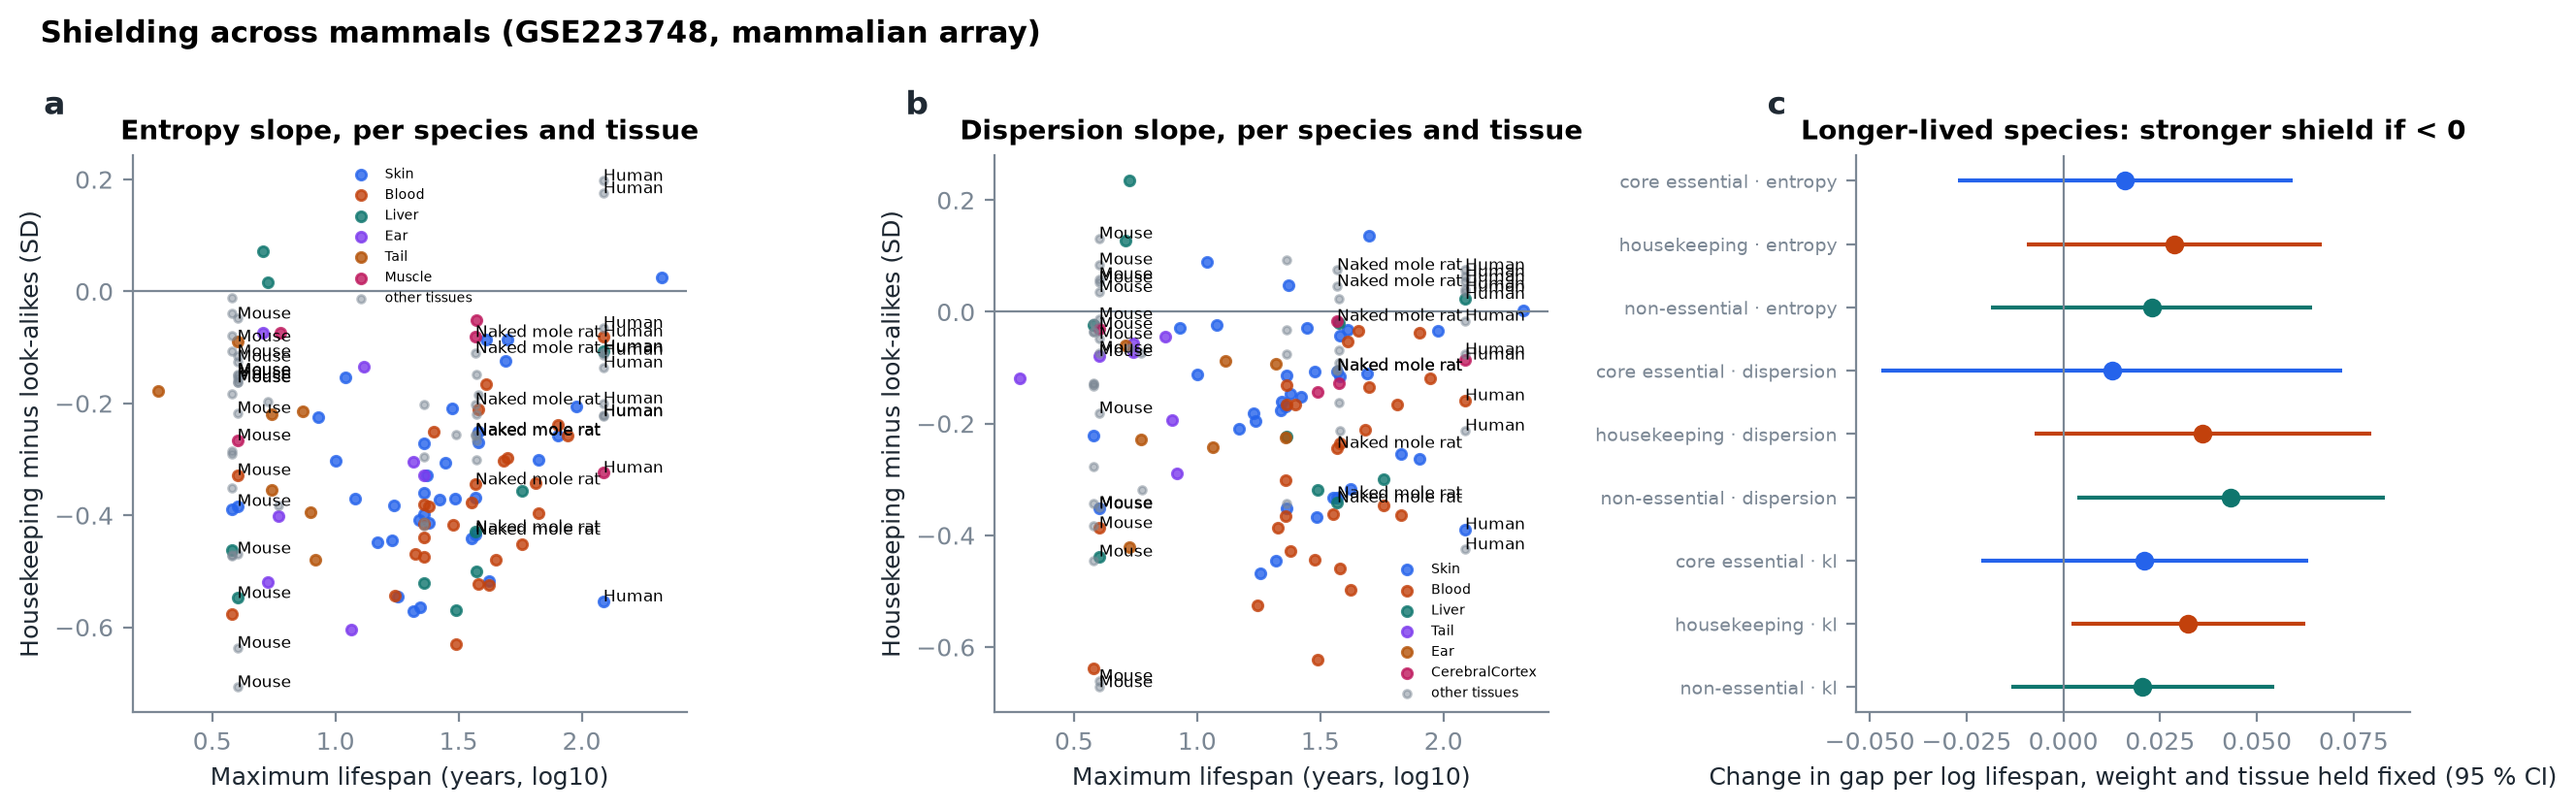
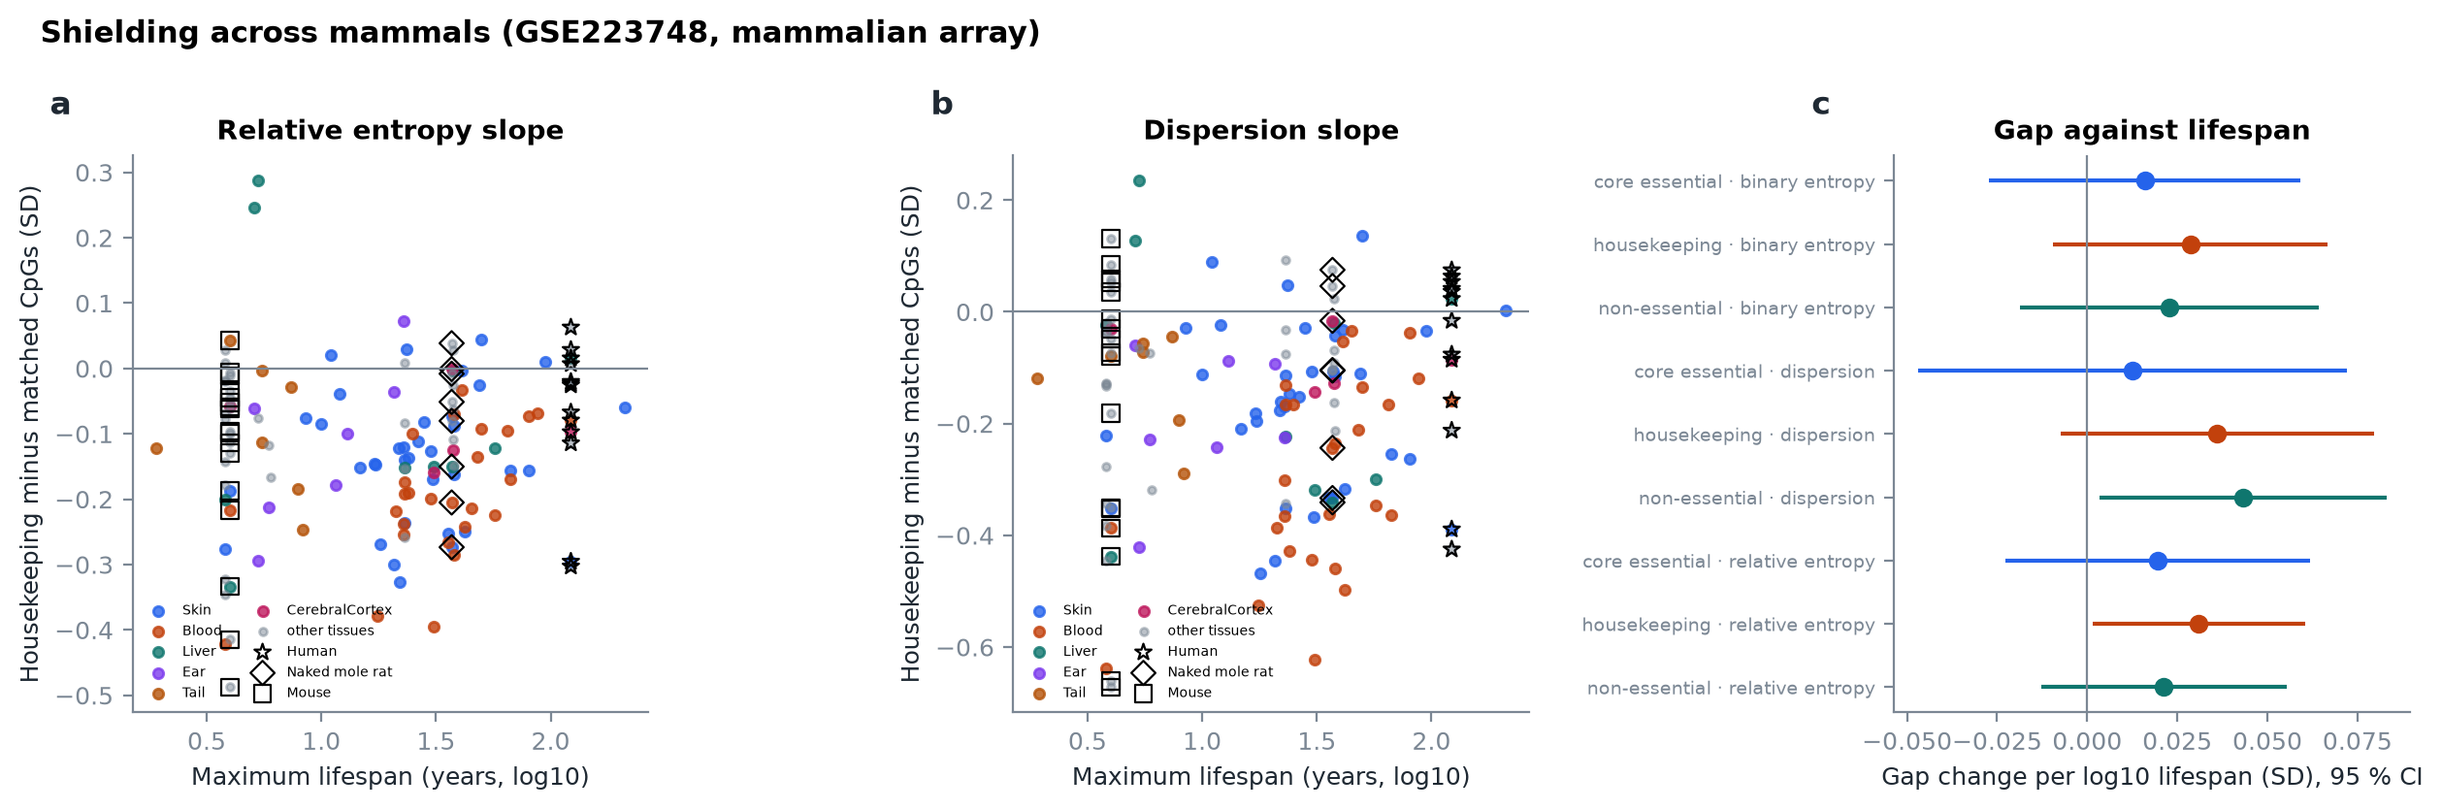
R149 species (88 %, Figure 3 on relative entropy) and R151 SATSA deposited p
Seat: entropy-age/lead

diff --git a/manuscript/paper.md b/manuscript/paper.md
@@ -11,7 +11,7 @@ comparing CpGs in promoters of essential and housekeeping genes with CpGs of the
 methylation level (look-alikes), using relative entropy from the young state as the drift measure. Essential
 promoters drift less than look-alikes in human blood (−0.15 SD for housekeeping genes; −0.10 among CpGs that start between 10 and 90 % methylation, and none among
 those between 20 and 80 %), cortex (−0.06 SD), most GTEx
-tissues, mouse tissues and 89 % of 139 species-tissue groups of 65 mammals. Placebo gene sets, blood-cell
+tissues, mouse tissues and 88 % of 139 species-tissue groups of 65 mammals. Placebo gene sets, blood-cell
 composition, probe design and reprocessing from raw array files do not produce the gap.
 
 Most of the shield is accounted for by promoter activity, not by essentiality as such. Reference chromatin states account for
@@ -201,16 +201,17 @@ the shield or none.
 
 Across mammals (Mammalian Methylation Consortium, GSE223748; Lu et al. 2023; Haghani et al. 2023), 139
 species-tissue groups of 65 species had at least 15 animals spanning 15 % of the species' maximum lifespan. The
-housekeeping gap was negative in 89 % of groups (mean −0.13 SD; Fig. 3 draws the same groups on binary entropy and dispersion). Conserved array CpGs at essential promoters
+housekeeping gap was negative in 88 % of groups (mean −0.12 SD; Fig. 3a). Conserved array CpGs at essential promoters
 sit near 0 %, where drift is floored; with only CpGs whose young level lies between 10 and 90 %, the gap stayed
 negative in 73 % of groups (−0.10 SD).
 
 ![Figure 3](../docs/figures/species_shield.png)
 
-**Figure 3. The shield across 65 mammals.** (a, b) Housekeeping minus look-alike gap per species-tissue group against
-log10 maximum lifespan, on the binary-entropy and dispersion slopes (139 groups; Mammalian Methylation Consortium array); the relative-entropy share quoted in the text (89 % of groups negative) is not drawn. Below zero, housekeeping CpGs drift less than look-alikes.
-(c) Change of the gap per log lifespan, weight and tissue held (95 % interval). The all-CpG relative-entropy
-coefficient (+0.032, p 0.04) vanishes off the 0 % floor (+0.004, p 0.84; Supplementary Fig. S7).
+**Figure 3. The shield across 65 mammals.** (a, b) Housekeeping minus matched gap per species-tissue group against
+log10 maximum lifespan, on the relative-entropy and dispersion slopes (139 groups; Mammalian Methylation Consortium
+array); human, naked mole-rat and mouse groups are marked. Below zero, housekeeping CpGs drift less than matched CpGs.
+(c) Change of the gap per log10 lifespan, weight and tissue held (95 % interval). The all-CpG relative-entropy
+coefficient (+0.031, p 0.04) vanishes off the 0 % floor (+0.004, p 0.83; Supplementary Fig. S7).
 
 ### Essential promoters lose methylation faster and rest lower
 
@@ -456,7 +457,7 @@ SATSA (E-MTAB-7309; Wang et al. 2018) drew blood from the same Swedish twins up 
 batch regressed out, and on them the cross-sectional shield almost vanished (|mean change| +0.00 SD). We therefore rebuilt the
 series from its 1,072 raw arrays (444 people, 628 consecutive within-person pairs). Each person's change between two
 draws was split into the change everyone makes and the person's own departure from it (Methods). Housekeeping CpGs
-changed less in direction than look-alikes (−0.14 SD, gene-level p < 10⁻¹⁰; deposited betas −0.002, p 0.67), sat closer to the
+changed less in direction than look-alikes (−0.14 SD, gene-level p < 10⁻¹⁰; deposited betas −0.002, p 0.68), sat closer to the
 measurement floor (−0.073) and diverged slightly more slowly (−0.014, p 0.03; Fig. 8). Across people, the rebuilt
 series showed a cross-sectional shield like other blood cohorts (relative entropy −0.22 SD, dispersion −0.36,
 |mean| −0.11). On the deposited betas, the per-person shield share F fell by 0.14 per decade within a person

diff --git a/manuscript/supplement.md b/manuscript/supplement.md
@@ -30,7 +30,7 @@ Table S2. Results that rested on binary entropy, old against corrected (housekee
 | GTEx whole blood / lung / muscle | −0.29 / −0.27 / −0.07 | −0.14 / −0.09 / −0.00 | kept, about halved |
 | mouse array, renewing tissues | −0.12 to −0.31 | −0.05 to −0.19 | kept |
 | mouse array, post-mitotic and adipose | −0.22 to +0.10 | +0.03 to +0.09, all p ≤ 0.002 | reframed (hypothalamus −0.08) |
-| species, share of 139 groups negative | 96 % (−0.30) | 89 % (−0.13) | kept, resized |
+| species, share of 139 groups negative | 96 % (−0.30) | 88 % (−0.12) | kept, resized |
 | species, with chip intercepts (122 groups that can be fitted) | n.a. | 86 % (−0.11) | kept |
 | species, 13 human groups, human annotation instead of mouse | n.a. | 9 of 13 negative under both (−0.05 against −0.02) | kept |
 | same donors, blood minus brain region (Lunnon), tissues normalised together | n.a. | −0.08 to −0.10 against −0.07 to −0.10 on the deposited values | kept; still confounded with slide |
@@ -408,7 +408,7 @@ Source: `docs/PROVENANCE.md`, `docs/extension.md`.
 | Mouse array 11 tissues, renewing − post-mitotic −0.19 | C1, C2 | R68a | `data/output/mouse_tissues/point_estimates.csv`, `contrasts.csv` |
 | RRBS and BXD gaps | C1 | R73 | `data/output/meer_tissues/aging_gaps.csv`, `mouse_rrbs_tissues/aging_gaps.csv`, `interventions/aging_gaps.csv`, `bxd_liver/aging_gaps.csv` |
 | Culture, share against doublings | C3 | Endicott and Sturm runs (pre-R-numbering), R1 | `data/output/passaged_cells/coupling_across_lines`, `data/output/passaged_cells_sturm/` |
-| Species 89 % / 73 % off floor; lifespan +0.004 | C6 | R12, R59, R68c | `data/output/species_floor/species_gaps.parquet`, `data/output/species_floor/lifespan_fits.csv`, `share_off_floor.csv` |
+| Species 88 % / 73 % off floor; lifespan +0.004 | C6 | R12, R59, R68c | `data/output/species_floor/species_gaps.parquet`, `data/output/species_floor/lifespan_fits.csv`, `share_off_floor.csv` |
 | Phylogenetic GLS | C6 | species_phylo | `data/output/species_phylo/lifespan_fits` |
 | Gain and loss rates; resting level | C2, C4 | R67 | `data/output/equilibrium_drift/pooled_rates.csv`, `per_cpg_gaps.csv`, `identified.csv` |
 | Faster loss within active TSS | C2 | R74 | `data/output/equilibrium_drift/pooled_rates.csv`, `per_cpg_gaps.csv` |

diff --git a/docs/CHANGELOG.md b/docs/CHANGELOG.md
@@ -4,6 +4,7 @@ Newest first.
 
 ## Unreleased
 
+- 2026-11-24: R149 species rerun after the relative-entropy fix: 88 % of 139 groups negative (mean −0.12; was 89 %, −0.13), lifespan coefficient +0.031 (p 0.04); Figure 3 redrawn on relative entropy; R151 deposited SATSA gene-level p 0.68. Paper, supplement and artifact rewritten.
 - 2026-11-24: SATSA within-person p-values now gene-level (rebuilt series: direction p < 10⁻¹⁰, divergence p 0.03); deposited tables rerun (R151) for the same.
 - 2026-11-24: R150 part 3: Meer mouse tissues rerun (lung −0.14 → −0.15 in the text), species floor unchanged.
 - 2026-11-24: R146 headline rerun: blood housekeeping −0.147 SD, gene-level p 5·10⁻²⁴⁴ over 3,647 genes; Methods now describe gene-level p. R150 part 2: interventions, sorted cells, probe robustness unchanged; Thompson mouse RRBS tissues moved after the relative-entropy fix (adipose −0.03 → −0.08, kidney −0.18 → −0.23, muscle −0.08 → −0.10); text rewritten.
